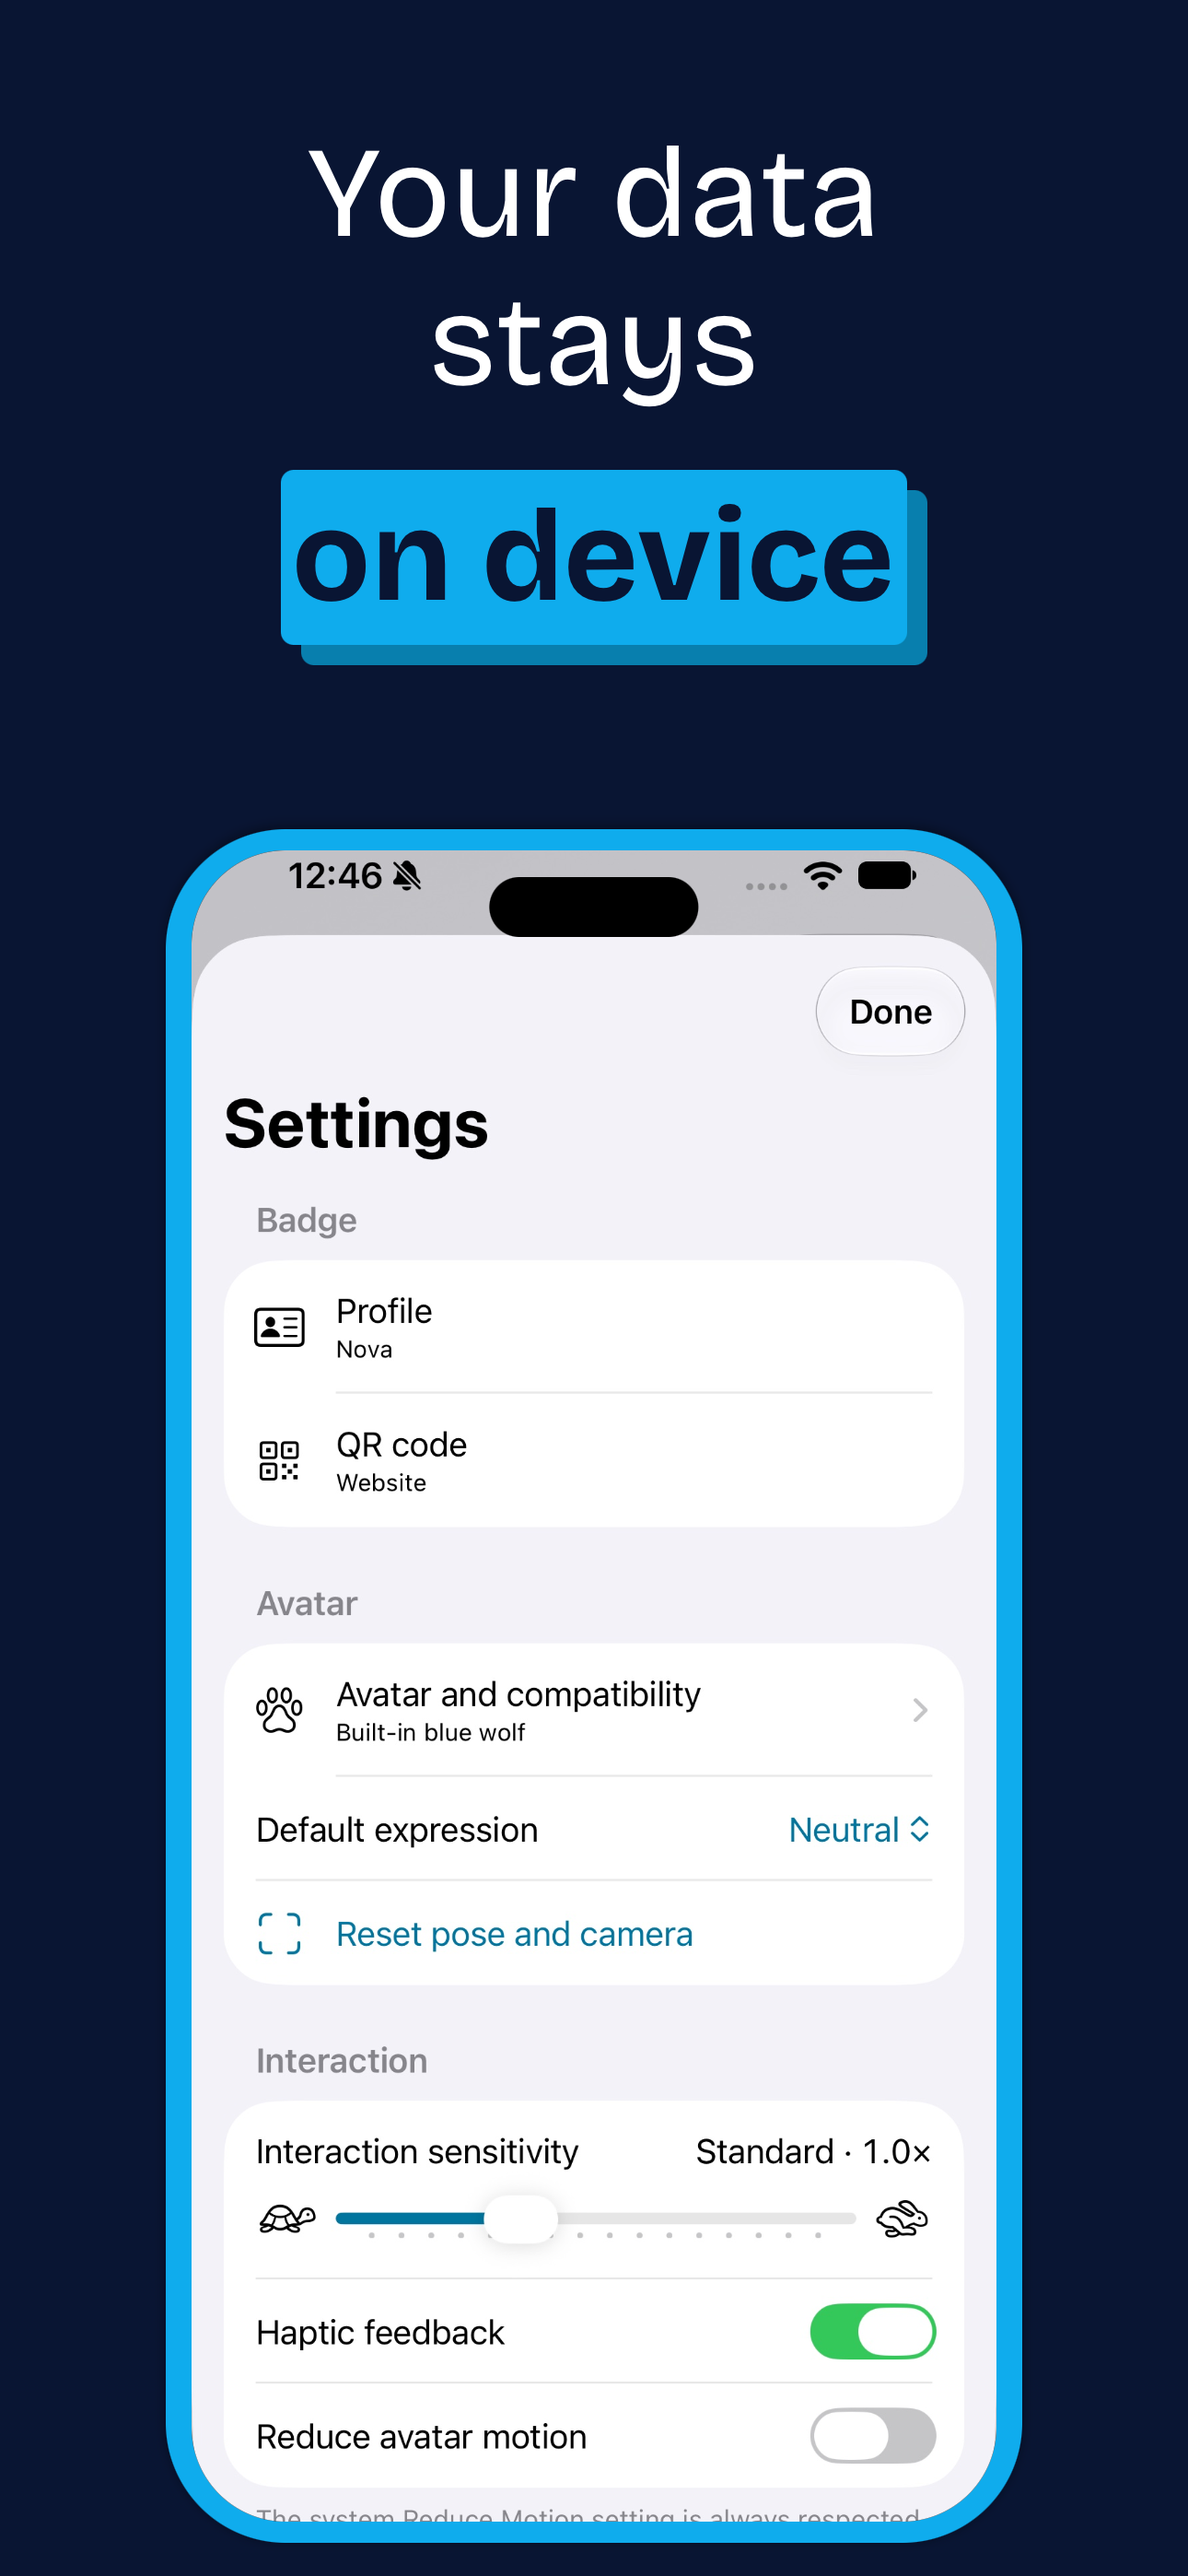
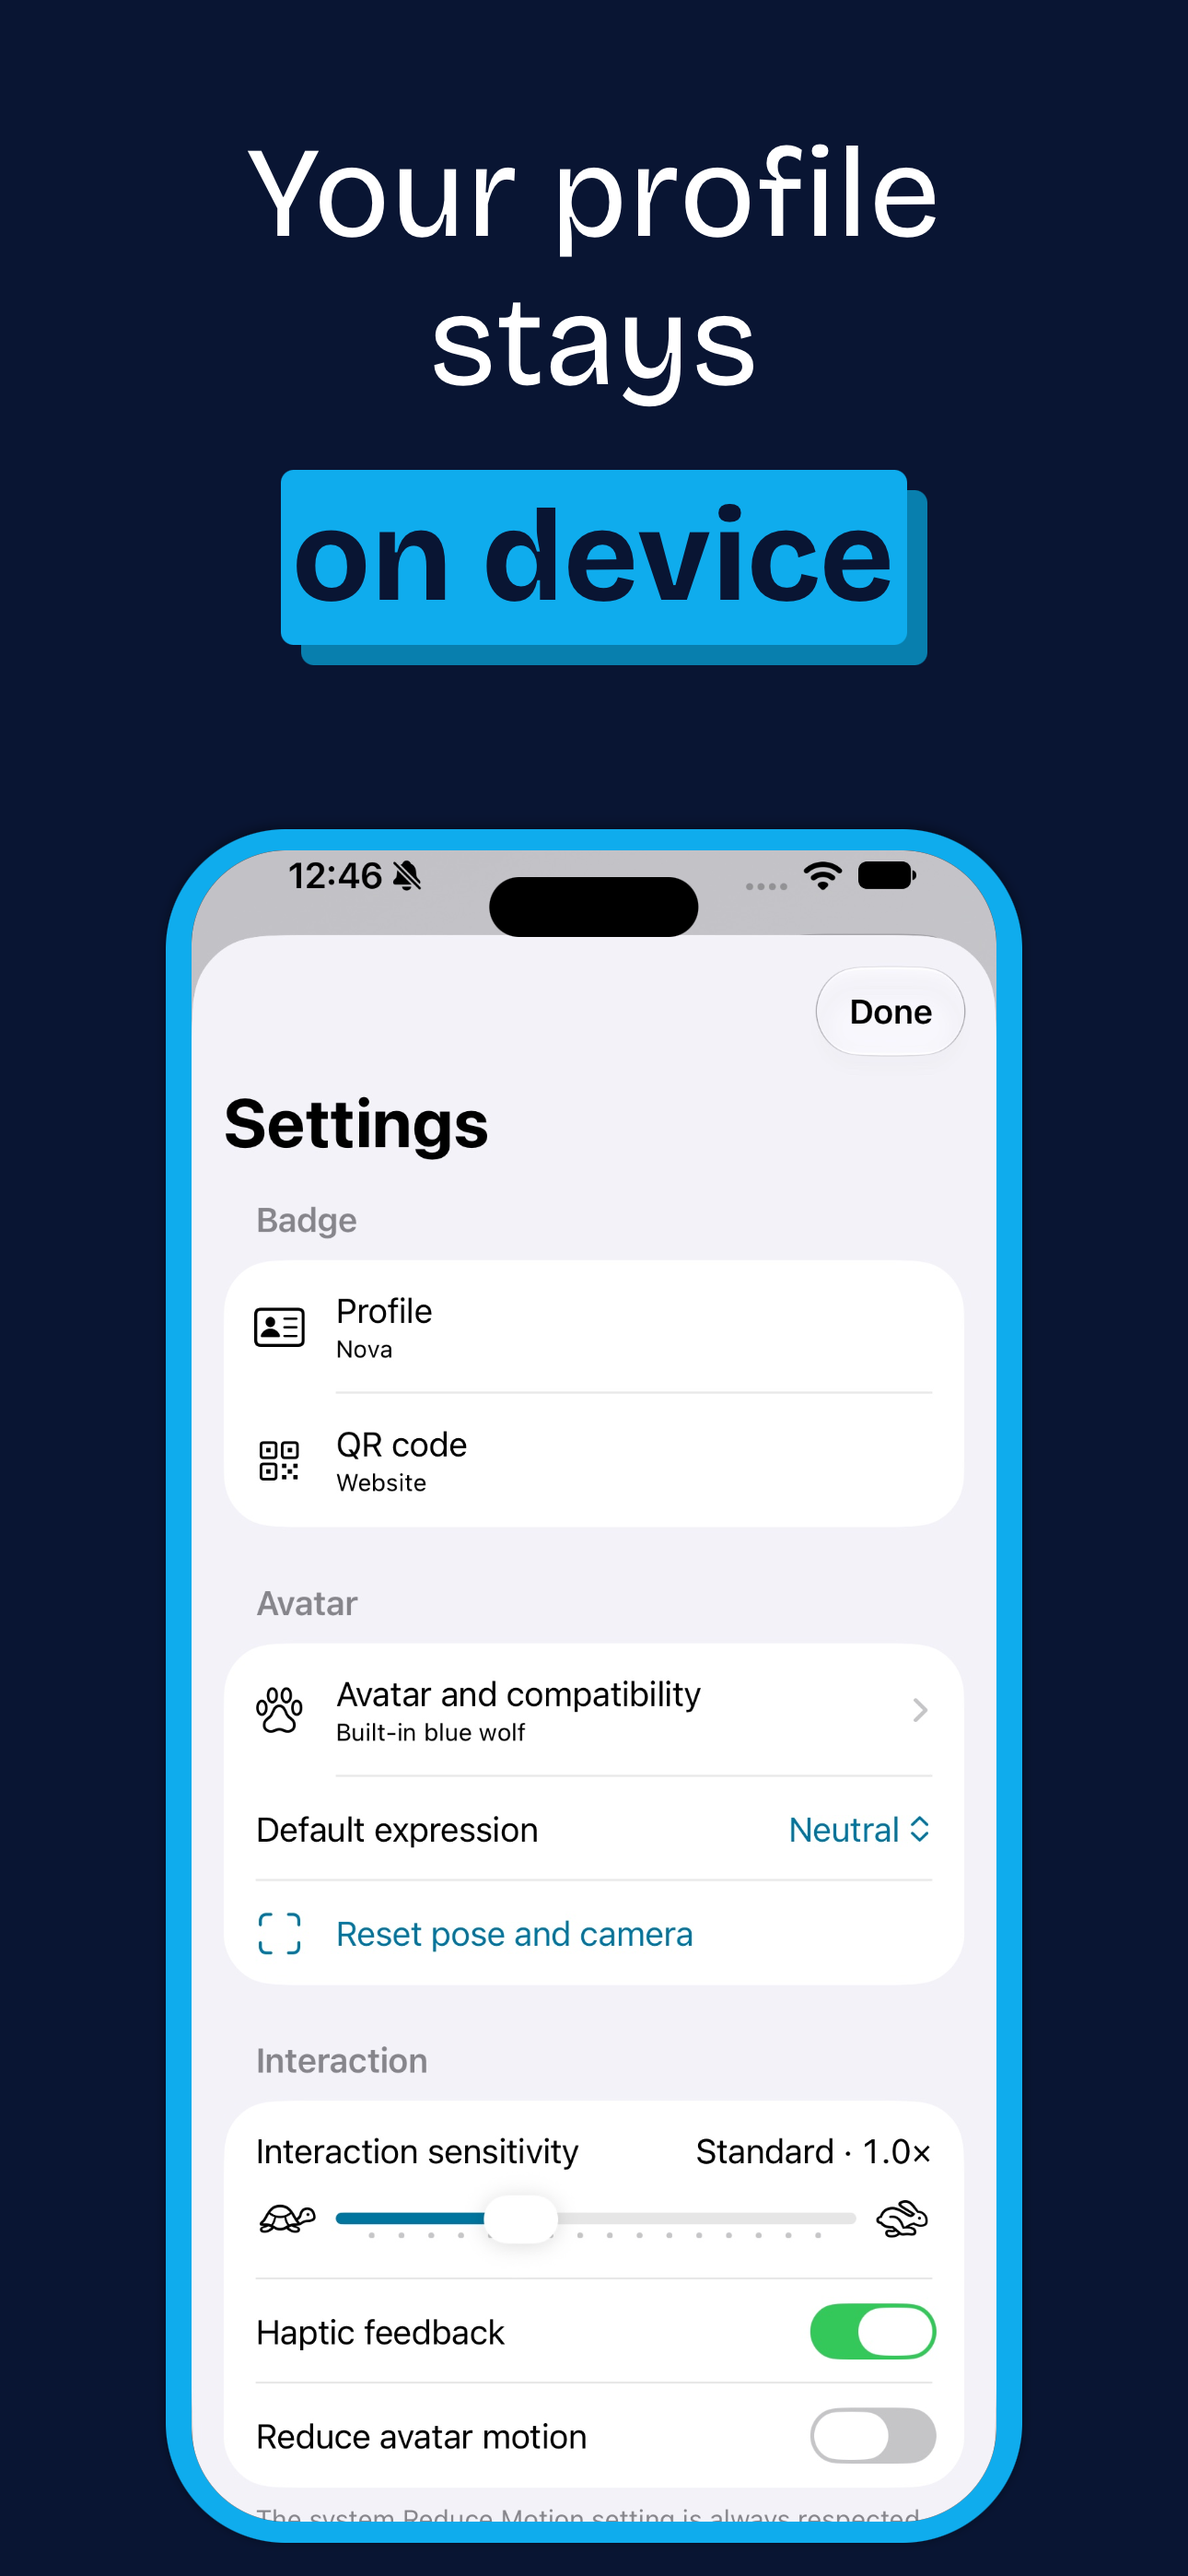
docs: clarify profile privacy in store screenshot

Changed region(s): [[0.2171, 0.0311, 0.8062, 0.0933]]

diff --git a/docs/APP_STORE_LISTING.md b/docs/APP_STORE_LISTING.md
@@ -76,11 +76,11 @@ Five screenshots were uploaded to the 6.9-inch iPhone slot on 2026-09-24, in thi
 2. `02_Stories.png` — Enlarged QR code.
 3. `03_Explore.png` — Profile editor.
 4. `04_Everywhere.png` — Avatar import.
-5. `05_Engaging.png` — Settings and on-device privacy.
+5. `05_Engaging.png` — Settings; “Your profile stays on device.”
 
 The cleaned upload files are in `assets/app-store/`. The five iPhone files are 1290 × 2796; that is an accepted 6.9-inch iPhone screenshot size, but the exported files do not prove which simulator model captured them. `06_iPad_Badge.png` is a 13-inch iPad Pro simulator capture at 2064 × 2752 and was uploaded on 2026-09-24. The QR points to the public SonaPin site, not a personal contact.
 
-Apple's current 6.9-inch screenshot specifications also accept 1320 × 2868 for iPhone 18 Pro Max. Refresh the five iPhone screenshots at that size before the public release, using the iPhone 18 Pro Max simulator and Open Screenshot Generator. Where the UI and localization are the same, App Store Connect can scale the highest-resolution screenshots across sizes. See [Apple's screenshot specifications](https://developer.apple.com/help/app-store-connect/reference/app-information/screenshot-specifications).
+The local `05_Engaging.png` now says “Your profile stays on device,” which accurately describes profile storage while Sentry sends limited crash and hang diagnostics. App Store Connect still needs the refreshed screenshot set. Before public release, recapture and export all five at 1320 × 2868 using the iPhone 18 Pro Max simulator and Open Screenshot Generator. Where the UI and localization are the same, App Store Connect can scale the highest-resolution screenshots across sizes. See [Apple's screenshot specifications](https://developer.apple.com/help/app-store-connect/reference/app-information/screenshot-specifications).
 
 ## Age-rating notes
 

diff --git a/docs/IMPLEMENTATION_CHECKLIST.md b/docs/IMPLEMENTATION_CHECKLIST.md
@@ -42,7 +42,7 @@ SonaPin is a released open-source iOS project with a TestFlight build. Public Ap
 - [x] Confirm an installed TestFlight build: 1.0.0 build 1 is testing in the Private Beta group.
 - [x] Upload five iPhone screenshots and save updated App Store listing copy.
 - [x] Upload the 13-inch iPad screenshot.
-- [ ] Refresh the five iPhone screenshots at 1320 × 2868 on iPhone 18 Pro Max; keep the first three focused on the badge, QR scan, and customization.
+- [ ] Refresh and upload all five iPhone screenshots at 1320 × 2868 on iPhone 18 Pro Max, including the corrected “Your profile stays on device” copy; keep the first three focused on the badge, QR scan, and customization.
 
 Simulator results do not clear the physical-device or App Store Connect gates.
 
